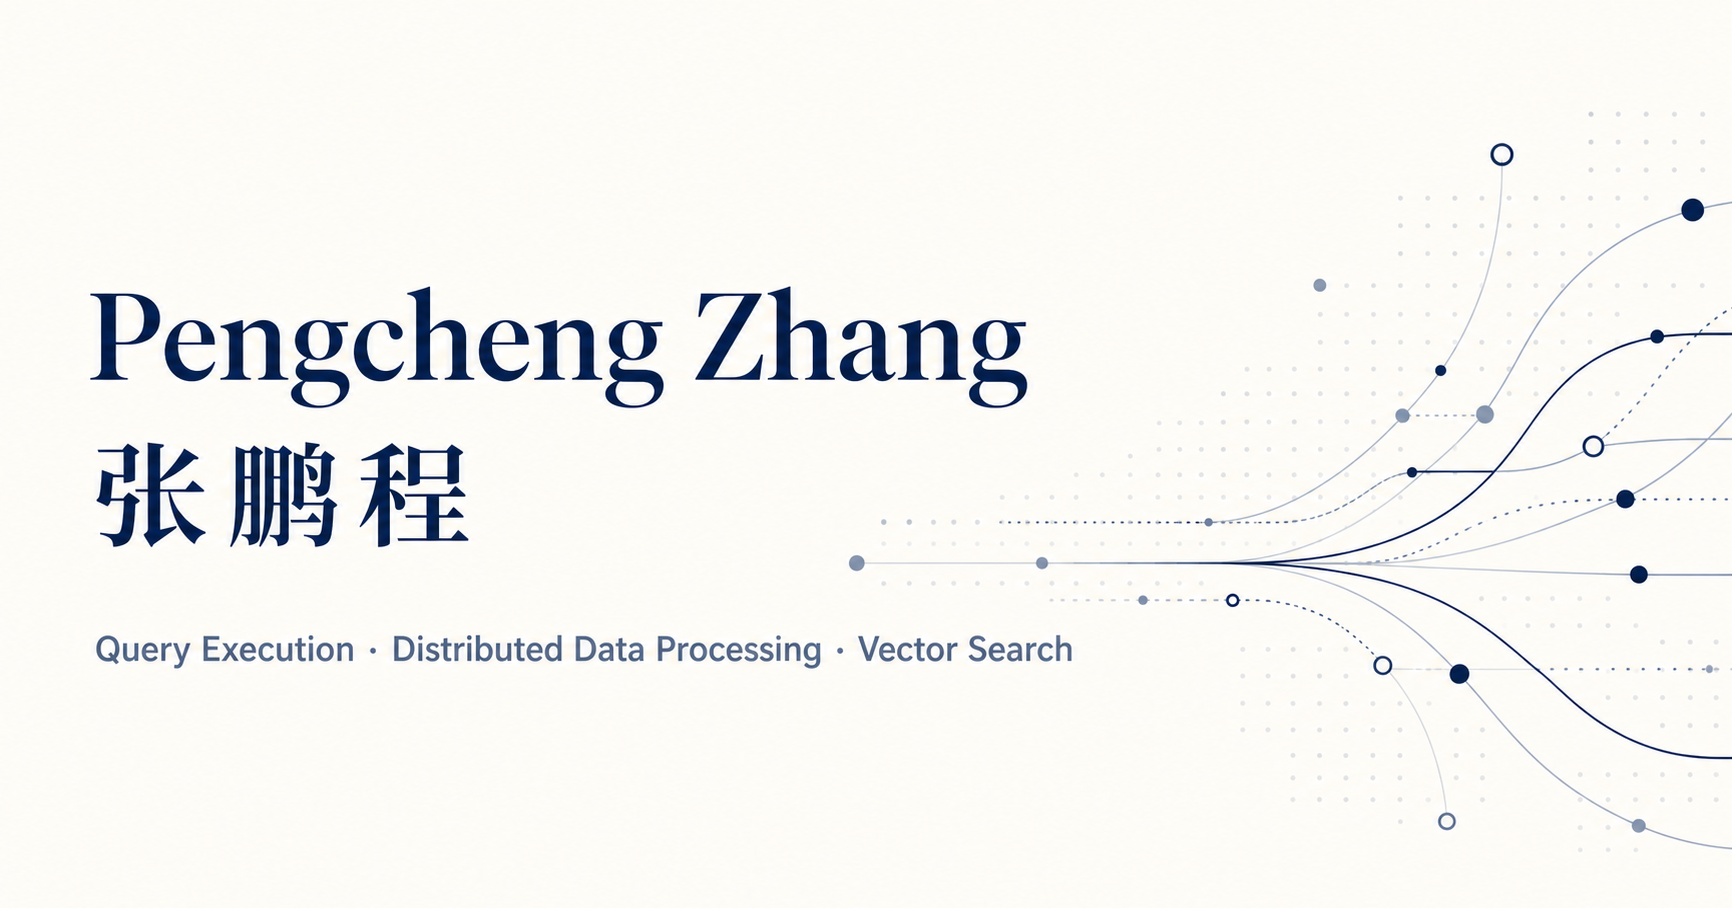
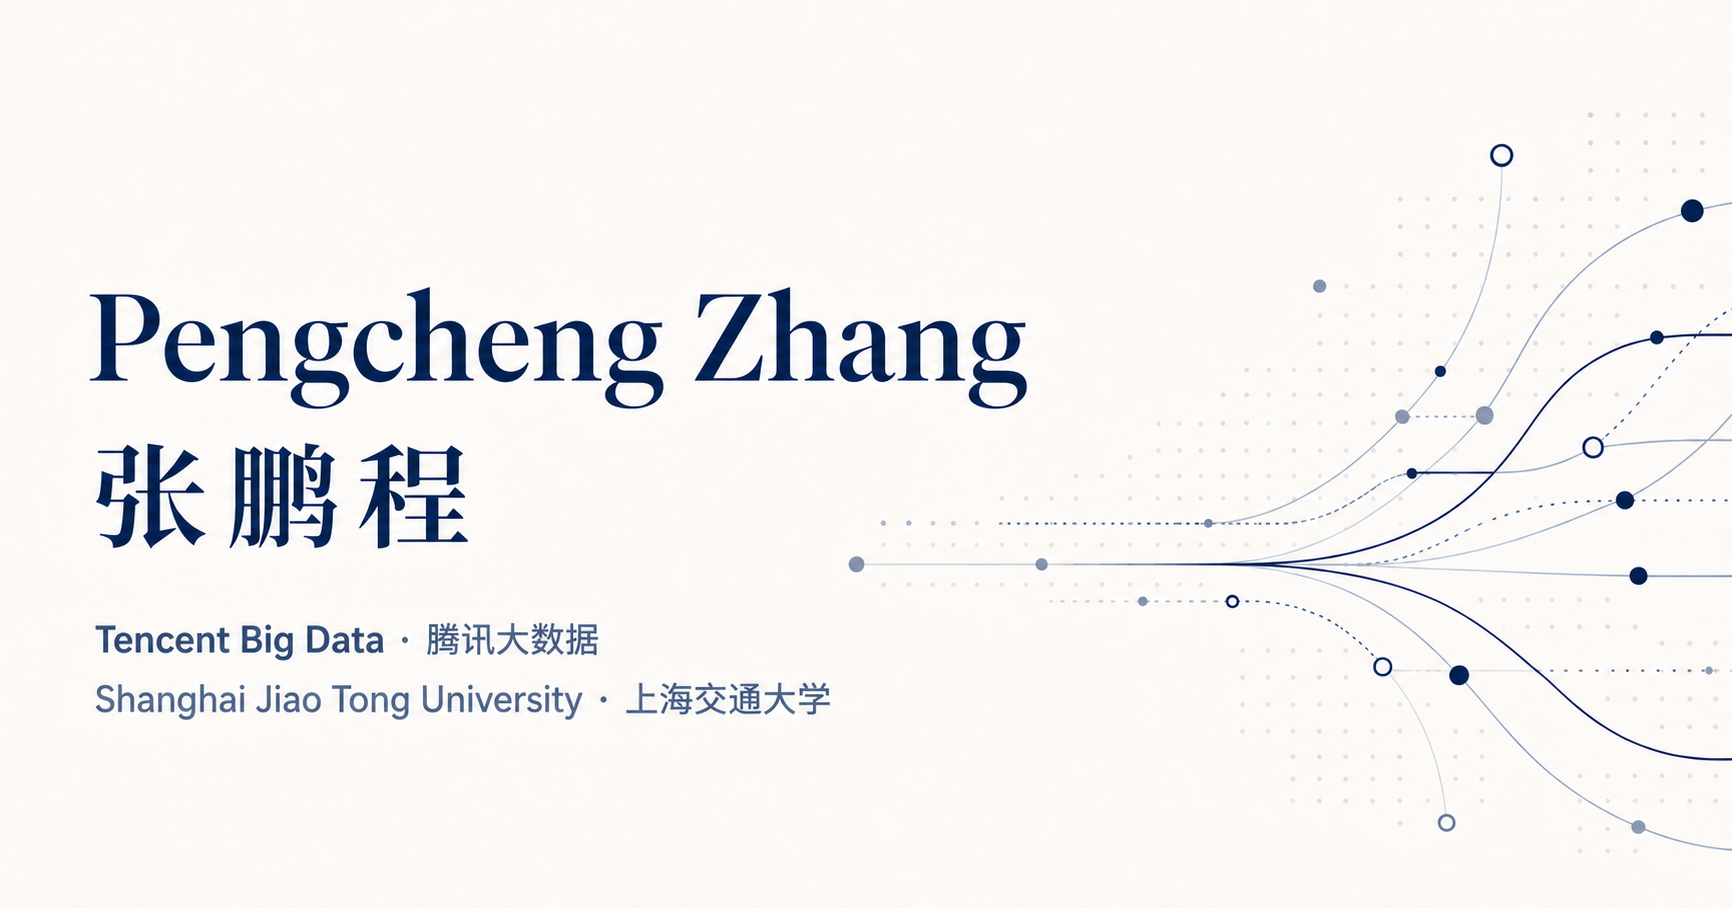
Refocus social metadata on affiliations

diff --git a/_includes/seo.html b/_includes/seo.html
@@ -19,7 +19,7 @@
 
 <meta name="author" content="{{ site.author.name }}{% if site.author.name_zh %} ({{ site.author.name_zh }}){% endif %}">
 <meta name="robots" content="index, follow, max-image-preview:large">
-<meta name="keywords" content="Pengcheng Zhang, 张鹏程, Petri Zhang, Tencent Big Data, TEngine, TEngineDB, query execution, distributed data processing, vector search">
+<meta name="keywords" content="Pengcheng Zhang, 张鹏程, Petri Zhang, Tencent, 腾讯, Tencent Big Data, 腾讯大数据, Shanghai Jiao Tong University, SJTU, 上海交通大学, TEngine, TEngineDB, query execution, distributed data processing, vector search">
 
 {% assign seo_author = page.author | default: page.author[0] | default: site.author[0] %}
 {% if seo_author %}
@@ -58,7 +58,7 @@
 <meta property="og:image:type" content="image/png">
 <meta property="og:image:width" content="1732">
 <meta property="og:image:height" content="908">
-<meta property="og:image:alt" content="Pengcheng Zhang (张鹏程): Query Execution, Distributed Data Processing, and Vector Search">
+<meta property="og:image:alt" content="Pengcheng Zhang 张鹏程 — Tencent Big Data 腾讯大数据 · Shanghai Jiao Tong University 上海交通大学">
 
 <script type="application/ld+json">
 {
@@ -76,12 +76,14 @@
   },
   "worksFor": {
     "@type": "Organization",
-    "name": "Tencent Big Data"
+    "name": "Tencent Big Data",
+    "alternateName": "腾讯大数据"
   },
   "alumniOf": [
     {
       "@type": "CollegeOrUniversity",
-      "name": "Shanghai Jiao Tong University"
+      "name": "Shanghai Jiao Tong University",
+      "alternateName": "上海交通大学"
     },
     {
       "@type": "CollegeOrUniversity",
@@ -106,7 +108,7 @@
 <meta name="twitter:description" content="{{ seo_description }}">
 <meta name="twitter:url" content="{{ canonical_url }}">
 <meta name="twitter:image" content="{{ seo_image }}">
-<meta name="twitter:image:alt" content="Pengcheng Zhang (张鹏程): Query Execution, Distributed Data Processing, and Vector Search">
+<meta name="twitter:image:alt" content="Pengcheng Zhang 张鹏程 — Tencent Big Data 腾讯大数据 · Shanghai Jiao Tong University 上海交通大学">
 
 {% if site.twitter.username %}
   <meta name="twitter:site" content="@{{ site.twitter.username | replace: "@", "" }}">
